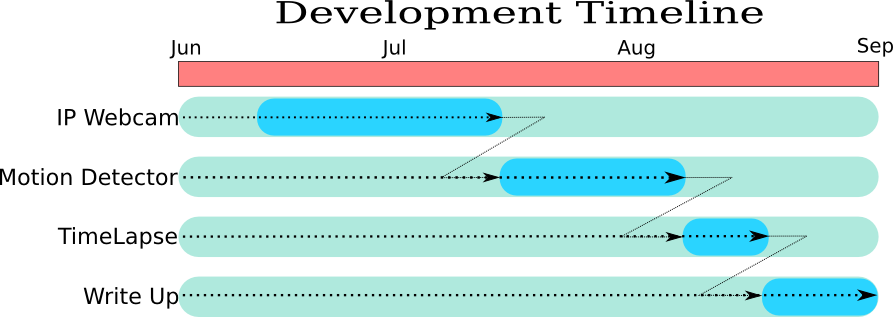
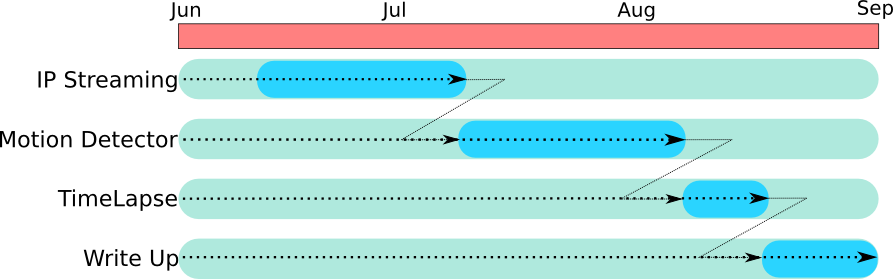
Introduction, Conclusion, need todo references

diff --git a/write_up.tex b/write_up.tex
@@ -92,7 +92,7 @@
 
 \part*{}{\tiny.\\\\\\\\\\\\\\\\}
 \begin{abstract}
-Morphological image processing techniques were adopted upon frames captured by the camera on the Nokia N900 smartphone to correctly detect motion for a wide range image sizes using the FCam API and CImg processing library in C++ within the Qt Framework.\\\tab A commandline interface was then developed to help facilitate time lapse operations in order to efficiently watch a target within a set period of time at specified intervals. The motion detection and time lapse components were merged into a single application dubbed ‘WatchDog’ and released successfully on public repositories.\\\tab IP webcam operations were also developed but they will be implemented into WatchDog at a further date.
+Morphological image processing techniques were performed upon frames captured by the camera on the Nokia N900 smartphone to correctly detect motion for a wide variety image sizes and motion ranges using the FCam API and CImg processing library in C++ within the Qt Framework.\\\tab A commandline interface was then developed to help facilitate time lapse operations in order to efficiently watch a target within a set period of time at specified intervals. The motion detection and time lapse components were merged into a single application dubbed ‘WatchDog’ and released successfully on public repositories.\\\tab IP streaming and webcam operations were also developed but they will be implemented into WatchDog at a further date.
 \\\\\let\thefootnote\relax\footnote{This report is submitted as part requirement for the MSc Computer Science degree at UCL. It is substantially the result of my own work except where explicitly indicated in the text. The report may be freely copied and distributed provided the source is explicitly acknowledged.}
 \end{abstract}
 \pagebreak
@@ -106,8 +106,8 @@ I would like to thank the following people:
 	\begin{description}
 	\item At UCL:
 		\begin{description}
-		\item [Robin Hirsch] For being very flexible with my project idea, and for being incredibly helpful in finding me a secondary supervisor.
-		\item [Fabrizio Pece] For the truly superb and insightfully helpful discussions and guidance into all aspects of the project.
+		\item [Robin Hirsch] For just being all-round decent guy: very flexible with my project idea, giving perceptive suggestions, and being incredibly helpful in finding me a secondary supervisor.
+		\item [Fabrizio Pece] For the speedy, concise, and friendly responses to all my queries, and for the truly helpful discussions and guidance into all aspects of the project.
 
 		\end{description}
 	\item At Home:
@@ -119,6 +119,33 @@ I would like to thank the following people:
 
 \pagebreak
 
+\part{Introduction}
+This project is primarily about motion detection; what it is, how it works, the various approaches attempted, and the final product. There is also a significant amount of work done on time lapse operations, and streaming over an Internet Protocal (IP Streaming).
+
+The project was developed over the course of several months with the initial focus being about IP streaming, but later shifted attention onto motion detection as my interest in the topic grew. The time lapse was intended as an optional feature, but I found myself dedicating a week or so to it since it slotted into the motion detector code so well.
+ 
+\begin{figure}[H]
+\includegraphics[width=0.8\textwidth]{images/timeline}
+\caption{Schedule and division of work}
+\label{fig:timmy}
+\end{figure}
+
+{\large\bf What it is}
+\begin{enumerate}
+\item {\bf Motion Detector} is a device that is able to distinguish between different components of a scene (i.e. what is moving, and what is not) and react to it.
+\item {\bf Time Lapse} captures images at pre-specified intervals, so that when those images are viewed successively it appears that the transition of time has increased.
+\item {\bf IP Streaming} sends video or audio data from one machine to another in real time using internet protocols.
+\end{enumerate}
+
+{\large\bf What it does}
+A simple example of motion detection where there is only one moving object, then often it is enough to simply subtract one image from the previous as two bitmaps and the watch the difference. The dark parts in this subtracted image would have cancelled each other out because they have not changed between frames. The parts that  ‘light up’ are parts where there was a substantial difference between one frame or the next: movement.
+
+Rarely is there ever only one moving object in a scene, and for a scene watching a man walk past we will not want to capture the rustling trees behind him. In this case a simple subtraction would no longer work and we must perform more advanced techniques (morpholigical operations) such as eroding and/or dilating the image which shrink out or embolden features of an image respectively. Combined, they are a powerful tool and by specifying the level of eroding and dilating one can control what represents significant motion or not.
+%%%HERE
+
+
+
+
 \import{parts/}{background.tex}
 \import{parts/}{motiondetect.tex}
 \import{parts/}{timelapse.tex}
@@ -128,9 +155,49 @@ I would like to thank the following people:
 
 \import{parts/}{appendix.tex}
 
+\part{Conclusions}
+I believe the app has been a success. Due to the dying state of the Maemo community and the lack of N900 users it perhaps hasn’t received all the recognition that it deserves - but by itself it is a good decent application that performs a wide variety of different tasks, and does them {\it well}.
+
+It satisfies all the requirements that a good motion detector needs such as detecting movement under a wide range of different scenarios and settings such as light/dark environments, or different types of movement such as allowing the user to specify different mask size and thresholds for large/small movement.
+
+It even goes beyond the initial requirements and extends its abilities, such that the user can opt to have their images converted into a movie after each session, or the user can choose to be emailed for each movement that occurs (with the option to have the image containing the movement emailed to them). This gives the application new function, so that it is no longer just a motion detector, but a full-blown security device that can notify and alert its owner of activities around the phone (such as emailing the mugshot of the guilty culprit attempting to steal something of the owner’s).
+
+The implementation of the commandline emphasizes this side of the application, since the user does not have to be within the vicinity of the phone to set up the watchdog, but can now ssh or telnet into the device remotely and perform operations without anyone knowing. This greatly extends its security applications by enabling the user to convert their phone into a spy device at will.
+
+The time lapse operations give a sense of novelty back into the application so that the more artistic users can compile movies of objects moving over the course of days, and the native integration of the scheduling the photos using the phone’s native scheduler makes it feel less of a burden, since it does not require installing any extra dependencies.
+
+The IP streaming part of the application shifts back towards the practicality of application, much like the motion detector, but away from the security side of things and more for use as a video conferencing tool, so that the user can be moving about anywhere and streaming it live to a remote computer elsewhere.
+
+On Maemo, there is nothing like this app out there on the repo’s. However on other platforms, there are plenty of contendors who have more complete version of different {\it parts} of my app:
+
+Windows mobile already has a motion detection app ‘Vio’\footnote{Vio detection - http://vio-detection.com/}\label{ref:vio} which boasts features similar to mine (email user with image, convert to video), but can also send an SMS text.  I didn’t think to do that feature myself, mostly because  I have a pay-as-you-go contract and so don’t rely on network services (most of my communication is IP-based), but the implementation is easy to do especially since the QtMobility framework simplifies these tasks. 
+
+Vio lacks a commandline interface, and is closed-source. For me these are major contesting points, since a user should have access to their phone in every way possible, and they should also know that the security software they have just installed on their device is not itself a security risk (which is why I dont trust AVG or Avast AntiVirus software).
+
+iPhone and Android have similar motion detectors (e.g ‘Motion Detector’ for iPhone\footnote{Motion Detector - http://itunes.apple.com/gb/app/motion-detector/id331443079?mt=8}, and ‘Motion Detector Pro’ for Android\footnote{Motion Detector Pro - http://motiondetector.homepagepublisher.com/}), both of which have plenty of downloads but are not as fully developed as my app is in terms of features.
+
+Once the IP streaming component is well integrated into the application, I believe it will become a must-have app due to sheer multitasked functionality that it offers.
+
+I’ve previously discussed porting the app to future phones, most likely Windows Mobile due to Qt being well-integrated into it, and this is the aim at the moment. Before I do that I need to secure a loyal fanbase who are familiar with my work, so I believe a required stepping stone for transitioning from Fremantle to Windows (without being called a traitor) is Harmattan . Due to Fremantle and Harmattan (Meego) using a similar framework, porting from one to the other will not be difficult and will help secure a loyal fanbase, since most of hardcore N900 Fremantle users switched to Harmattan N9 rather than choose the alternative (iPhone, Android, Windows).
+
+In the meantime, the app serves as a good end product for a neglected (but otherwise fantastic) phone and may be a possible winner of the Maemo 2012 Coding Competition.
+
+\begin{thebibliography}{9}
+
+\bibitem{vio}
+Vio Detection, Motion Detection Application,
+\url{http://vio-detection.com/}
+
+\bibitem{moip}
+Senstic , Motion Detector, Iphone
+\url{http://itunes.apple.com/gb/app/motion-detector/id331443079?mt=8}
+
+\bibitem{moan}
+Motion Detector Pro, Android, (Anonymous Developer)
+\url{http://motiondetector.homepagepublisher.com/}
+
+\end{thebibliography}
+
+
 \end{document}
 
-Transcript of commits
-
-Section: Future features
-Plan to have a 'night mode' that can be used for detecting movement at night using a longer exposure on the CMOS chip

diff --git a/parts/appendix.tex b/parts/appendix.tex
@@ -193,27 +193,31 @@ If no target has been set up, then go to Tools... Options... select the Linux De
 Due to the 120 page filelimit, these had to be omitted from the report. The extensive testing however can be accessed via the following GoogleDocs link:\\\tab ShortUrl - \url{http://alturl.com/pbaxn}\footnote{URL - \url{https://docs.google.com/document/d/1Q4bQBR2-eptudjRmMpVTXe3FIAUZg3uGiBaAiKVZEeE/edit}}\\ and by clicking on the first link. This will take you through twelve tests performed and analysed, but not typed up very well, but proving that extensive work was done for this part of the project.
 
 \section{Application Code}
+The most significant parts of the code have already been sampled and discussed at great length within the main text (more than 15 pages worth). However some of the code that has been unmentioned is the GUI-related {\it error proofing of user-inputs}. This is not the focus of the project, which is why I did not make it into a chapter in the main text, but a significant amount of work has been done to make the application(s) reasonably error-free and so the source is provided in the CD for those who are curious enough.
+
+{\bf The code displayed below are the small classes that have been referenced in the main text, but not discussed much in great detail.}
+
 Please note that the autogenerated moc files from Qt have been omitted, as well as any UI XML files (the GUI Map in the User Interfaces section is suitable enough).  Also note that the header files for the classes were also left out because the headers merely outlined the source file, which can speak for itself. Please consult the CD for full contents of all header and development files.
 
 \subsection{WatchDog}
 The code here is used by both parts of the application. The subsections denote the more specific classes.
 CImg.h was left out, not only because it is an external library, but because all 45,000 lines of it may extend the length of this report somewhat.
 
-\begin{frame}{}
-\lstinputlisting[title=\bf Main.cpp]{Code/actual/watch/main.cpp}
-\end{frame}
-
-\begin{frame}{}
-\lstinputlisting[title=\bf About.cpp]{Code/actual/watch/about.cpp}
-\end{frame}
-
-\begin{frame}{}
-\lstinputlisting[title=\bf chooseop.cpp]{Code/actual/watch/chooseop.cpp}
-\end{frame}
-
-\begin{frame}{}
-\lstinputlisting[title=\bf commandline.cpp]{Code/actual/watch/commandline.cpp}
-\end{frame}
+%\begin{frame}{}
+%\lstinputlisting[title=\bf Main.cpp]{Code/actual/watch/main.cpp}
+%\end{frame}
+%
+%\begin{frame}{}
+%\lstinputlisting[title=\bf About.cpp]{Code/actual/watch/about.cpp}
+%\end{frame}
+%
+%\begin{frame}{}
+%\lstinputlisting[title=\bf chooseop.cpp]{Code/actual/watch/chooseop.cpp}
+%\end{frame}
+%
+%\begin{frame}{}
+%\lstinputlisting[title=\bf commandline.cpp]{Code/actual/watch/commandline.cpp}
+%\end{frame}
 
 \begin{frame}{}
 \lstinputlisting[title=\bf functions.cpp]{Code/actual/watch/functions.cpp}
@@ -221,7 +225,7 @@ CImg.h was left out, not only because it is an external library, but because all
 
 
 \subsubsection{Motion Detector}
-MotionWindow.cpp and Settings.cpp were omitted for page limiting reasons, they were simply too long to put in the Appendix. Most of their logic stems from Pointer control, QSettings implementations, and Error proofing user-inputs, all of which have been discussed in the main text.  Consult CD for full source code.
+MotionWindow.cpp and Settings.cpp were omitted for page limiting reasons, they were simply too long to put in the Appendix. Most of their logic stems from Pointer control, QSettings implementations, and Error proofing user-inputs, all of which have been discussed in the main text.  Operations.cpp has already been discussed in great detail too. Consult CD for full source code.
 
 \vspace{-20pt}
 \begin{frame}{}
@@ -232,10 +236,10 @@ MotionWindow.cpp and Settings.cpp were omitted for page limiting reasons, they w
 %\lstinputlisting[title=\bf motionwindow.cpp]{Code/actual/watch/motionwindow.cpp}
 %\end{frame}
 
-\vspace{-20pt}
-\begin{frame}{}\label{operations}
-\lstinputlisting[title=\bf operations.cpp]{Code/actual/watch/operations.cpp}
-\end{frame}
+%\vspace{-20pt}
+%\begin{frame}{}\label{operations}
+%\lstinputlisting[title=\bf operations.cpp]{Code/actual/watch/operations.cpp}
+%\end{frame}
 
 %\begin{frame}{}
 %\lstinputlisting[title=\bf settings.cpp]{Code/actual/watch/settings.cpp}
@@ -243,16 +247,17 @@ MotionWindow.cpp and Settings.cpp were omitted for page limiting reasons, they w
 
 
 \subsubsection{Time Lapse}
+The code for TimeLapseWindow is also very long since the GUI has many elements (tabbed window), and so the code consist of mostly various error-proofing and QSetting related functions. Please consult CD for more information.
 
 \vspace{-20pt}
 \begin{frame}{}
 \lstinputlisting[title=\bf alarmd\_ops.cpp]{Code/actual/watch/alarmd_ops.cpp}
 \end{frame}
 
-\vspace{-20pt}
-\begin{frame}{}
-\lstinputlisting[title=\bf timelapsewind.cpp]{Code/actual/watch/timelapsewind.cpp}
-\end{frame}
+%\vspace{-20pt}
+%\begin{frame}{}
+%\lstinputlisting[title=\bf timelapsewind.cpp]{Code/actual/watch/timelapsewind.cpp}
+%\end{frame}
 
 
 \subsection{MediaStream}
@@ -310,16 +315,16 @@ Due to the page restrictions, this has also been omitted. Please see my public B
 \subsection{Other}
 Moved to the CD due to page limit restrictions\\\\
 {\hspace{-20pt}{\bf Interval Python Script }\label{interval}\\
-Please consult the 'Other' folder in the CD, and open interval.py
-%\begin{frame}{}
-%\lstinputlisting[title=\bf interval.py]{Code/interval.py}
-%\end{frame}
+%Please consult the 'Other' folder in the CD, and open interval.py
+\begin{frame}{}
+\lstinputlisting[title=\bf interval.py]{Code/interval.py}
+\end{frame}
 
 {\hspace{-20pt}{\bf Easter Egg python game}\label{easter}\\
-Please consult the 'Other' folder in the CD, and open bsg.py
-%\begin{frame}{}
-%\lstinputlisting[title=\bf easter.py]{Code/bsg.py}
-%\end{frame}
+%Please consult the 'Other' folder in the CD, and open bsg.py
+\begin{frame}{}
+\lstinputlisting[title=\bf easter.py]{Code/bsg.py}
+\end{frame}
 
 {\hspace{-20pt}{\bf GMaps profile implementation}\label{gmaps}\\
 Please consult the 'Other' folder in the CD, and open gmaps\_connect.html
